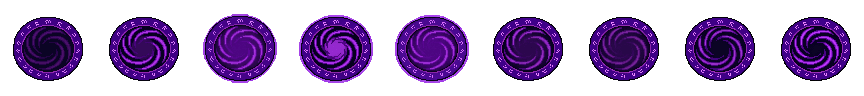
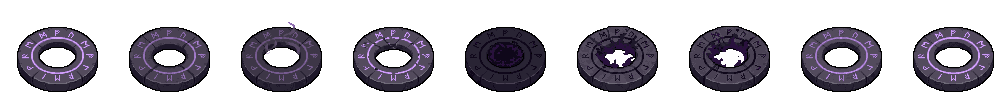
content(hamlet): swap to v3 portal — subtle runic glyph instead of vortex
User regenerated the portal with prompt 'subtle muted runic glyph
circle' after the v2 magenta swirl was reading as cartoon-emoji and
clashing with the painterly backdrop. New sprite:

- 112×112 native (was 96×96), 9 frames × 8fps
- Scaled 0.8× → ~90px rendered, fits INSIDE the painted ring instead
  of overflowing the whole plaza like v2 (1.5× → 144px)
- Same position (687, 381) — PORTAL_POS unchanged

Loader.js already had fx_portal registered from v1. Just an asset
swap + frameW/frameH/scale update in HAMLET_FX.

diff --git a/slime-depths/src/hamletScene.js b/slime-depths/src/hamletScene.js
@@ -348,17 +348,19 @@ const HAMLET_FX = [
     scale: 1.4, yOffset: 0,
   },
   {
-    // Portal swirl (v2 generation — true vortex, no stone frame). Sits
-    // on the dark circular pad in the central plaza at PORTAL_POS
-    // (687, 381). Sprite is 96×96 native, scaled 1.5× to fill the
-    // painted pad's ~140-150px diameter. 9-frame cycle at 8fps reads
-    // as a slow rune pulse — "dormant but alive" between descents.
-    // (Run-commit will trigger a separate burst FX layered on top.)
+    // Portal (v3 — subtle muted runic glyph circle). Replaces the
+    // saturated magenta swirl that was reading as cartoon-emoji style
+    // and clashing with the painterly backdrop. Sits on the dark
+    // circular pad in the central plaza at PORTAL_POS (687, 381).
+    // Sprite is 112×112 native, scaled 0.8× → ~90px rendered so it
+    // fits INSIDE the painted ring instead of overflowing it (v2 was
+    // 1.5× → 144px which was filling the whole plaza). 9 frames at
+    // 8fps for a slow rune pulse.
     id: 'portal', asset: 'fx_portal',
     x: 687, y: 381,
-    frameW: 96, frameH: 96,
+    frameW: 112, frameH: 112,
     frameCount: 9, fps: 8,
-    scale: 1.5, yOffset: 0,
+    scale: 0.8, yOffset: 0,
   },
   {
     // Cooking pot (v2 generation — cleaner kettle silhouette). Sits
